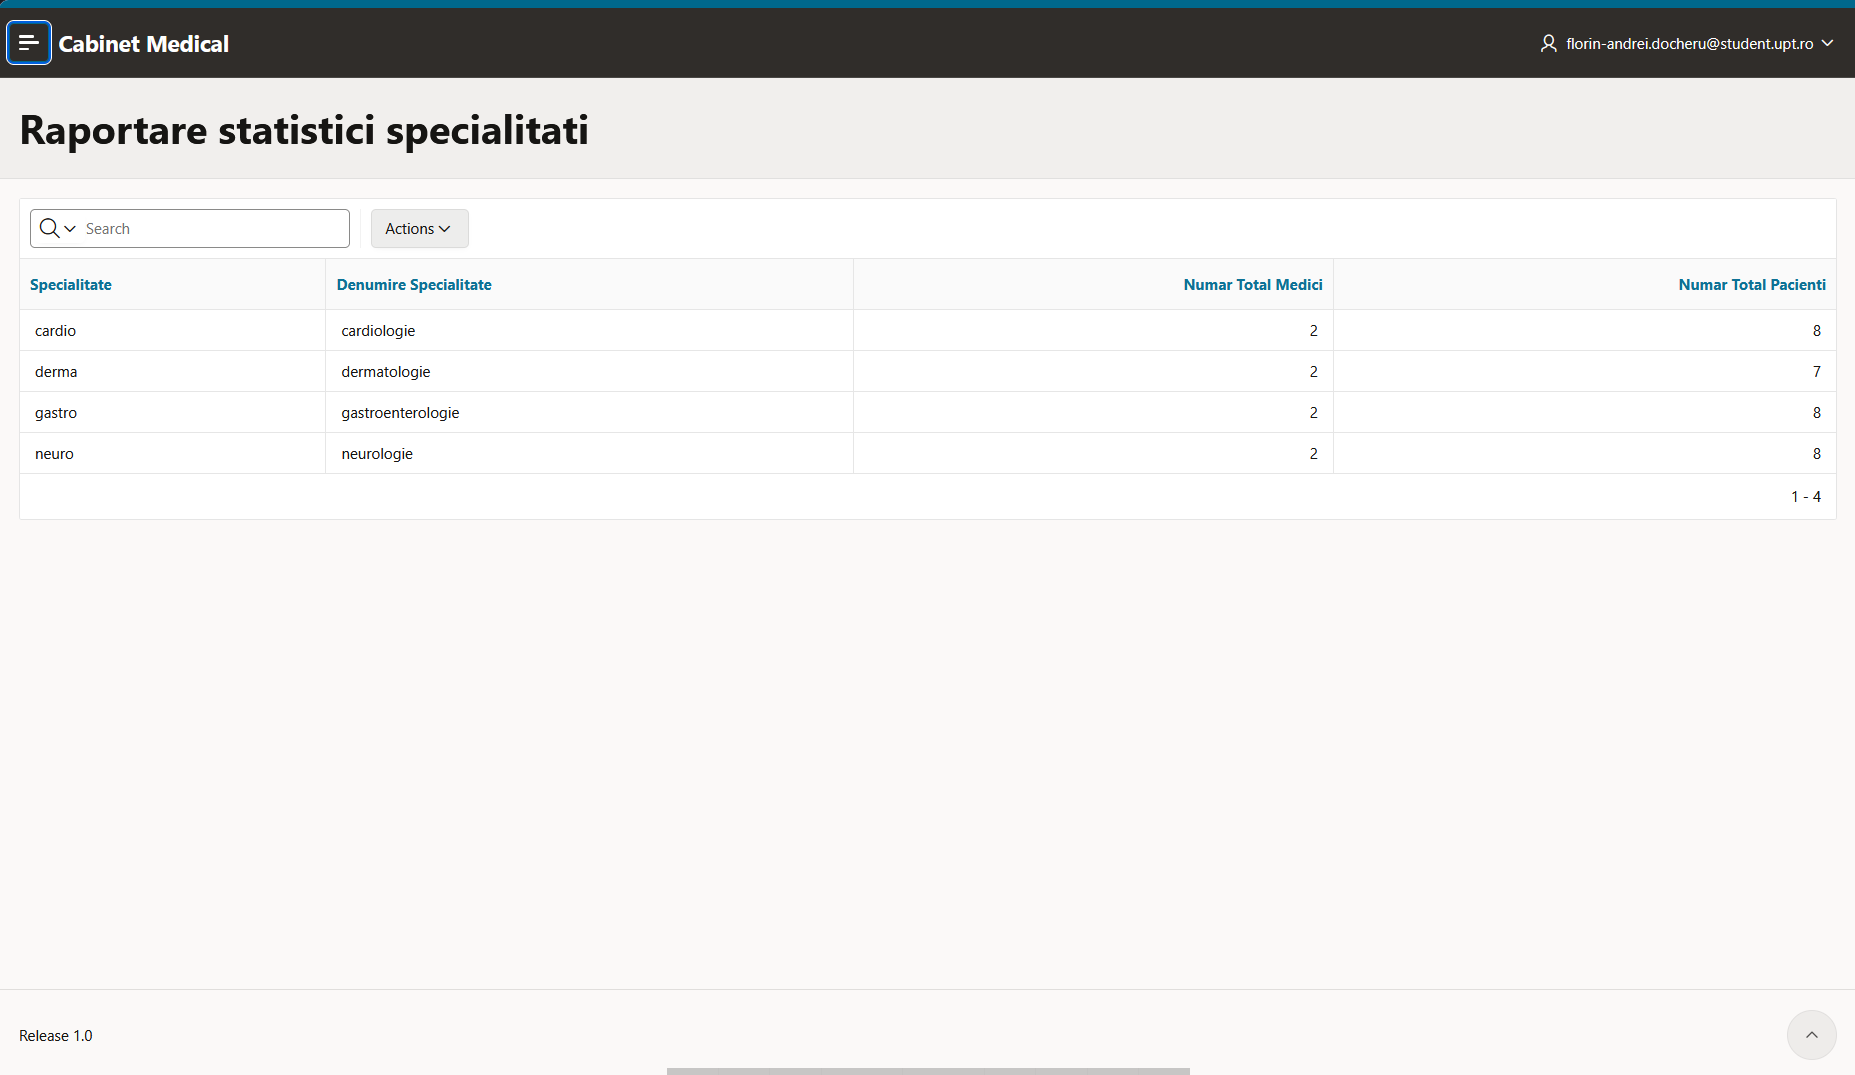
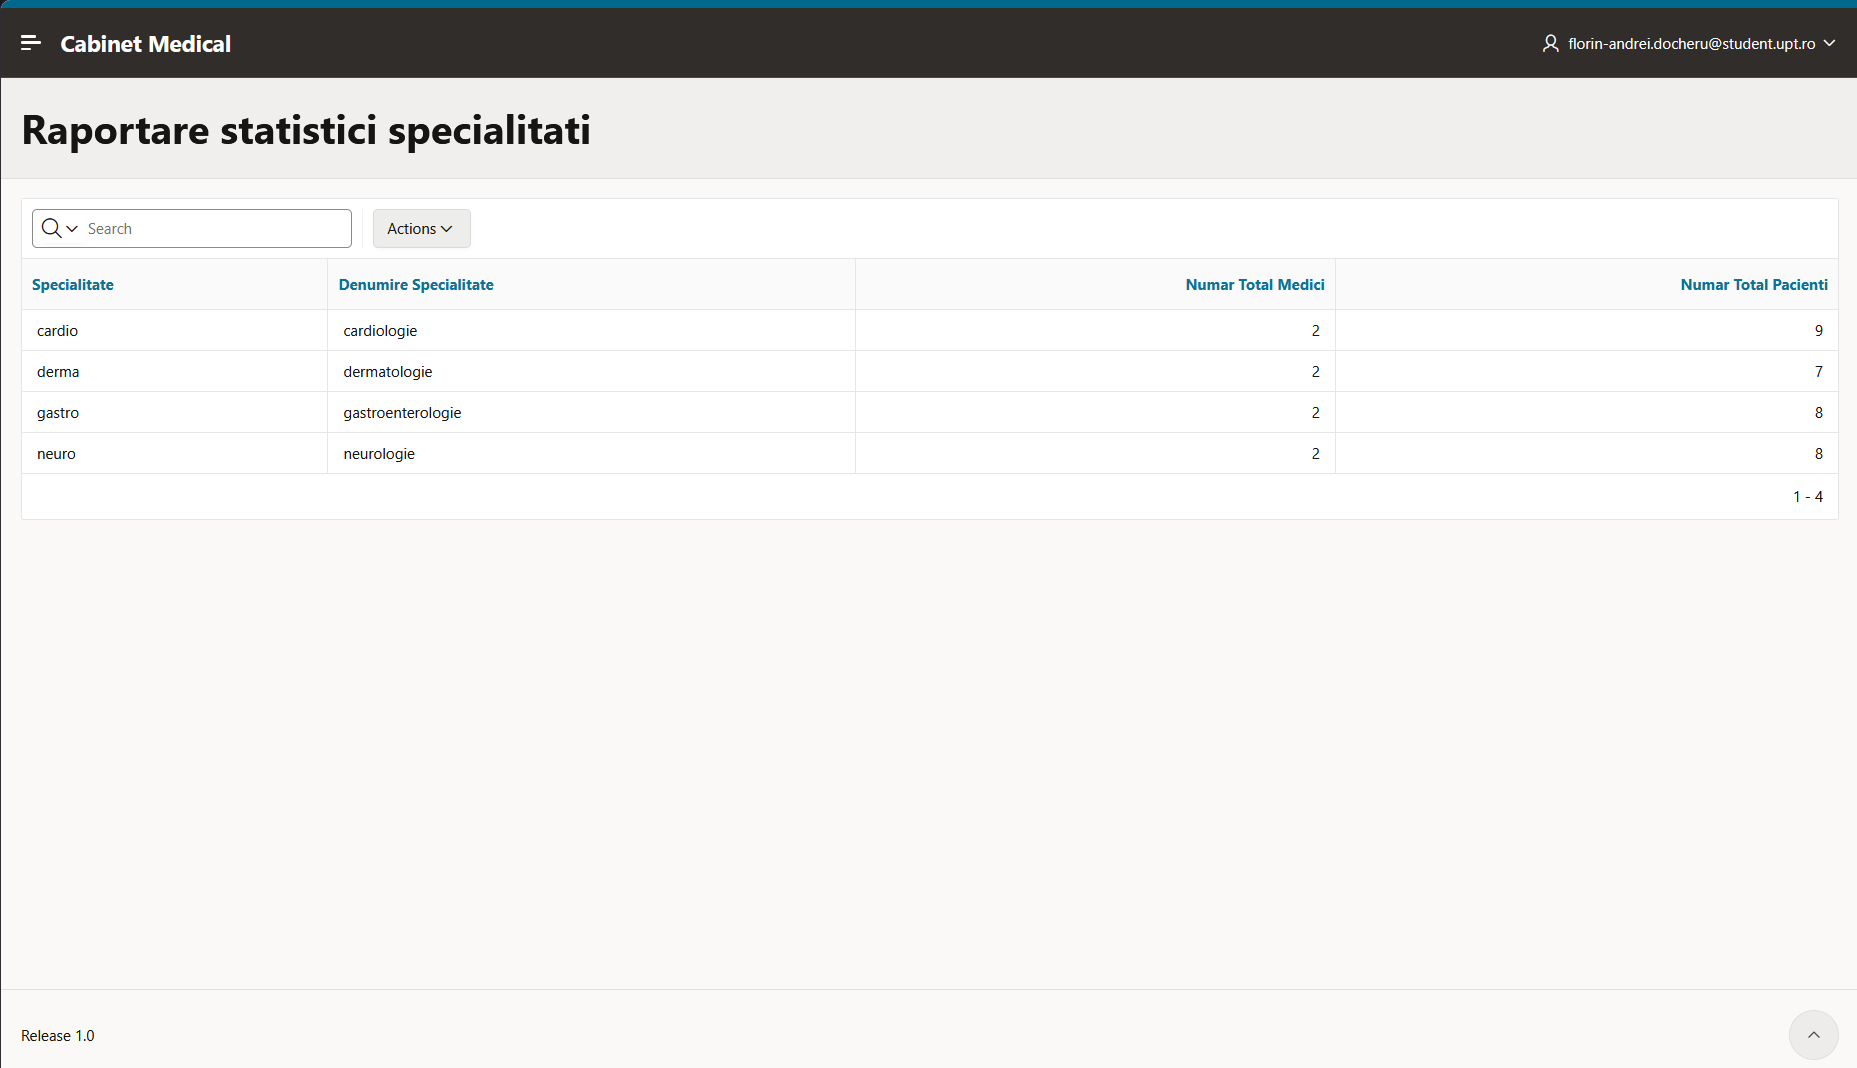
Student b pages done

diff --git a/Pages/Raportare Statistici Specialitati/RAPORTARE_STATISTICI_SPECIALITATI.md b/Pages/Raportare Statistici Specialitati/RAPORTARE_STATISTICI_SPECIALITATI.md
@@ -1,0 +1,10 @@
+### Page: Specialty Statistics Report
+
+This page displays a centralized statistical report, showing each medical specialty, its name, the total number of doctors, and the total number of unique patients registered.
+
+In APEX, this page was created using **Create Page -> Report -> Interactive Report**. To ensure complete data accuracy, the underlying SQL query uses advanced aggregation and joining techniques:
+
+* **LEFT JOIN:** The `cbSpecialitate`, `cbMedic`, and `cbProgramare` tables are connected using `LEFT JOIN`. This guarantees that no specialty is omitted: if a new specialty doesn't have any assigned doctors or appointments yet, it will still appear in the report with a value of `0` instead of being filtered out completely.
+* **COUNT(DISTINCT m.medID):** Calculates the exact number of unique doctors belonging to each specialty.
+* **COUNT(DISTINCT p.cnp):** Counts unique patients based on their personal identification number (CNP). Using `DISTINCT` here is crucial to prevent data duplication; if a single patient has 5 appointments in the same specialty, they will be counted as **one unique patient**, providing accurate real-world statistics for the clinic.
+* **GROUP BY:** Standard SQL rules require all non-aggregated columns (`codSpec` and `denumire`) to be included in the `GROUP BY s.codSpec, s.denumire` clause so the `COUNT` functions can group the results correctly for each row.